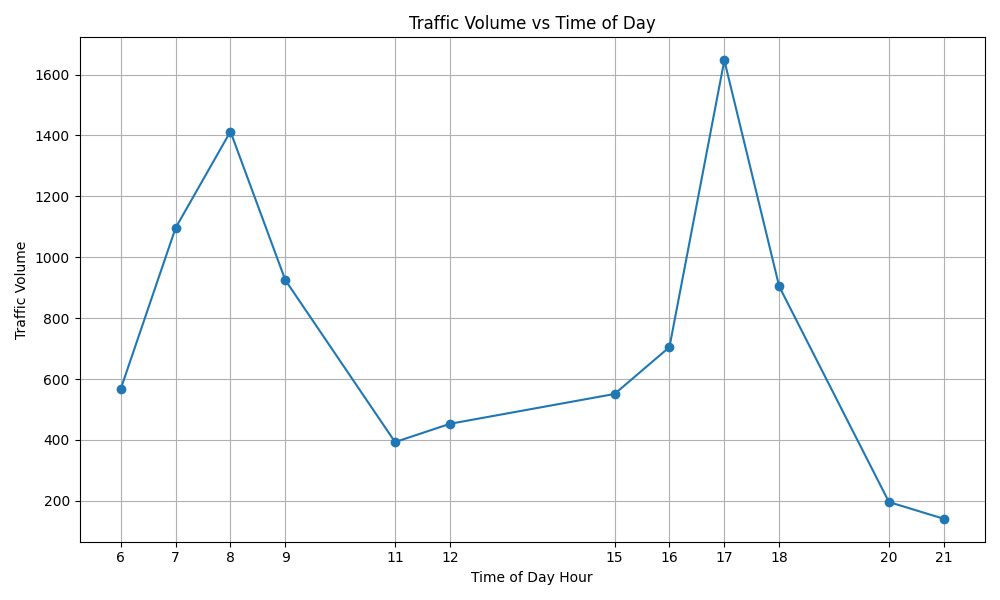
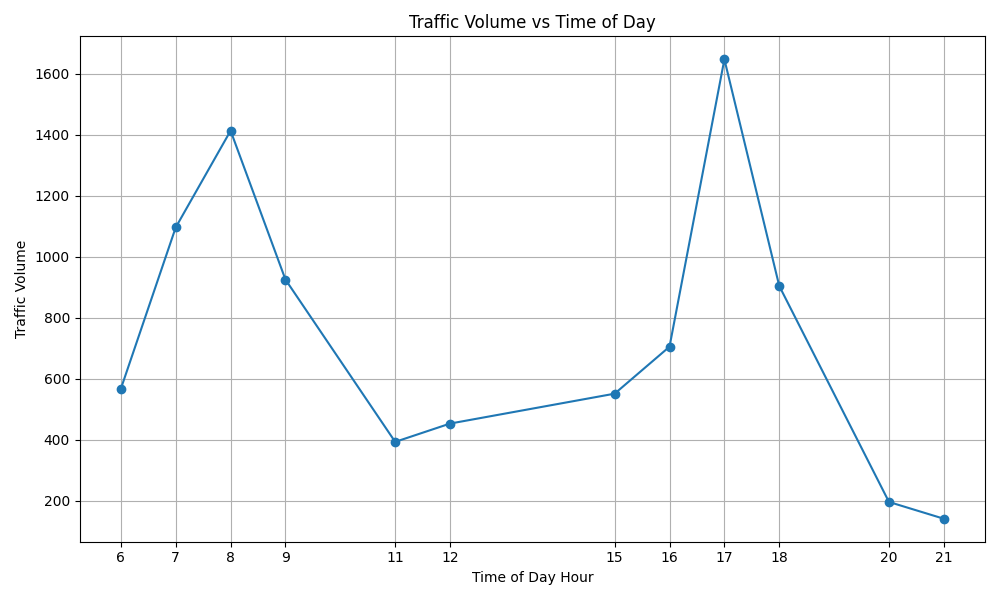
Add environment configuration, update README, and enhance traffic processing scripts

diff --git a/spark/traffic_stream_processor.py b/spark/traffic_stream_processor.py
@@ -4,6 +4,15 @@ import os
 from pyspark.sql.functions import from_json, col, to_timestamp, window, avg, sum as spark_sum, when
 from pyspark.sql.types import StructType, StructField, StringType, IntegerType, DoubleType, BooleanType
 
+try:
+    from dotenv import load_dotenv
+    load_dotenv()
+except ImportError:
+    pass
+
+KAFKA_SERVER = os.getenv("KAFKA_SERVER", "localhost:9092")
+KAFKA_TOPIC = os.getenv("KAFKA_TOPIC", "traffic-data")
+
 spark = SparkSession.builder \
     .appName("SmartCityTrafficStreamProcessor") \
     .master("local[*]") \
@@ -28,8 +37,8 @@ schema = StructType([
 
 kafka_df = spark.readStream \
     .format("kafka") \
-    .option("kafka.bootstrap.servers", "localhost:9092") \
-    .option("subscribe", "traffic-data") \
+    .option("kafka.bootstrap.servers", KAFKA_SERVER) \
+    .option("subscribe", KAFKA_TOPIC) \
     .option("startingOffsets", "latest") \
     .load()
 
@@ -69,7 +78,10 @@ congestion_window_df = traffic_df \
     )
 
 POSTGRES_ENABLED = os.getenv("POSTGRES_ENABLED", "false").lower() == "true"
-POSTGRES_URL = os.getenv("POSTGRES_URL", "jdbc:postgresql://localhost:5432/traffic_db")
+POSTGRES_HOST = os.getenv("POSTGRES_HOST", "localhost")
+POSTGRES_HOST_PORT = os.getenv("POSTGRES_HOST_PORT", os.getenv("POSTGRES_PORT", "55432"))
+POSTGRES_DB = os.getenv("POSTGRES_DB", "traffic_db")
+POSTGRES_URL = os.getenv("POSTGRES_URL", f"jdbc:postgresql://{POSTGRES_HOST}:{POSTGRES_HOST_PORT}/{POSTGRES_DB}")
 POSTGRES_USER = os.getenv("POSTGRES_USER", "traffic_user")
 POSTGRES_PASSWORD = os.getenv("POSTGRES_PASSWORD", "traffic_pass")
 
@@ -84,6 +96,15 @@ def write_to_postgres(batch_df, batch_id, table_name):
         .option("driver", "org.postgresql.Driver") \
         .mode("append") \
         .save()
+
+
+def write_congestion_metrics(batch_df, batch_id):
+    if batch_df.rdd.isEmpty():
+        return
+
+    batch_df.coalesce(1).write \
+        .mode("append") \
+        .json(f"output/congestion_metrics/batch_id={batch_id}")
 
 # Query 1: Critical alerts → console
 critical_query_console = critical_alerts_df.writeStream \
@@ -112,9 +133,8 @@ window_query = congestion_window_df.writeStream \
 
 # Query 4: Window aggregation → folder
 window_file_query = congestion_window_df.writeStream \
-    .outputMode("append") \
-    .format("json") \
-    .option("path", "output/congestion_metrics") \
+    .outputMode("update") \
+    .foreachBatch(write_congestion_metrics) \
     .option("checkpointLocation", "output/checkpoints/congestion_metrics") \
     .queryName("CongestionWindowMetrics_File") \
     .start()

diff --git a/scripts/generate_daily_traffic_report.py b/scripts/generate_daily_traffic_report.py
@@ -3,6 +3,12 @@ import os
 import matplotlib.pyplot as plt
 import pandas as pd
 
+try:
+    from dotenv import load_dotenv
+    load_dotenv()
+except ImportError:
+    pass
+
 
 BASE_DIR = os.path.abspath(os.path.join(os.path.dirname(__file__), ".."))
 DATA_PATH = os.path.join(BASE_DIR, "data", "traffic_data.csv")
@@ -13,7 +19,7 @@ CHART_PATH = os.path.join(REPORT_DIR, "traffic_volume_chart.png")
 
 POSTGRES_CONFIG = {
     "host": os.getenv("POSTGRES_HOST", "localhost"),
-    "port": int(os.getenv("POSTGRES_PORT", "55432")),
+    "port": int(os.getenv("POSTGRES_HOST_PORT", os.getenv("POSTGRES_PORT", "55432"))),
     "dbname": os.getenv("POSTGRES_DB", "traffic_db"),
     "user": os.getenv("POSTGRES_USER", "traffic_user"),
     "password": os.getenv("POSTGRES_PASSWORD", "traffic_pass"),

diff --git a/producer/traffic_producer.py b/producer/traffic_producer.py
@@ -1,11 +1,19 @@
 import json
+import os
 import random
 import time
 from datetime import datetime
 from kafka import KafkaProducer
 
-KAFKA_TOPIC = "traffic-data"
-KAFKA_SERVER = "localhost:9092"
+try:
+    from dotenv import load_dotenv
+    load_dotenv()
+except ImportError:
+    pass
+
+KAFKA_TOPIC = os.getenv("KAFKA_TOPIC", "traffic-data")
+KAFKA_SERVER = os.getenv("KAFKA_SERVER", "localhost:9092")
+PRODUCER_INTERVAL_SECONDS = float(os.getenv("PRODUCER_INTERVAL_SECONDS", "1"))
 
 producer = KafkaProducer(
     bootstrap_servers=KAFKA_SERVER,
@@ -97,7 +105,7 @@ try:
                 f"Status: {data['traffic_status']}"
             )
 
-        time.sleep(1)
+        time.sleep(PRODUCER_INTERVAL_SECONDS)
 
 except KeyboardInterrupt:
     print("Producer stopped.")

diff --git a/dashboard/traffic_dashboard.py b/dashboard/traffic_dashboard.py
@@ -5,6 +5,12 @@ import os
 import pandas as pd
 import streamlit as st
 
+try:
+    from dotenv import load_dotenv
+    load_dotenv()
+except ImportError:
+    pass
+
 
 BASE_DIR = os.path.abspath(os.path.join(os.path.dirname(__file__), ".."))
 REPORT_DIR = os.path.join(BASE_DIR, "reports")

diff --git a/README.md b/README.md
@@ -18,6 +18,18 @@ dashboard/traffic_dashboard.py            Streamlit dashboard
 postgres/init.sql                         PostgreSQL schema
 ```
 
+## Python Environment
+
+This project has a local Python virtual environment in `.venv`.
+
+Activate it before running manual commands:
+
+```bash
+source .venv/bin/activate
+```
+
+The project also has `.env` for local command settings. The shareable template is `.env.example`.
+
 ## Run Kafka
 
 ```bash
@@ -48,8 +60,7 @@ PGPASSWORD=traffic_pass psql -h localhost -p 55432 -U traffic_user -d traffic_db
 ## Run Producer
 
 ```bash
-python3 -m pip install kafka-python
-python3 producer/traffic_producer.py
+.venv/bin/python producer/traffic_producer.py
 ```
 
 Check Kafka messages:
@@ -61,8 +72,7 @@ docker exec -it kafka kafka-console-consumer --topic traffic-data --bootstrap-se
 ## Run Spark Streaming
 
 ```bash
-python3 -m pip install pyspark
-spark-submit \
+.venv/bin/spark-submit \
   --packages org.apache.spark:spark-sql-kafka-0-10_2.12:3.5.1 \
   spark/traffic_stream_processor.py
 ```
@@ -72,7 +82,7 @@ Critical alerts are saved to `output/critical_alerts`.
 To also write streaming critical alerts to PostgreSQL, include the PostgreSQL JDBC driver and enable the sink:
 
 ```bash
-POSTGRES_ENABLED=true spark-submit \
+POSTGRES_ENABLED=true .venv/bin/spark-submit \
   --packages org.apache.spark:spark-sql-kafka-0-10_2.12:3.5.1,org.postgresql:postgresql:42.7.3 \
   spark/traffic_stream_processor.py
 ```
@@ -80,8 +90,7 @@ POSTGRES_ENABLED=true spark-submit \
 ## Generate Daily Report Locally
 
 ```bash
-python3 -m pip install pandas matplotlib
-python3 scripts/generate_daily_traffic_report.py
+.venv/bin/python scripts/generate_daily_traffic_report.py
 ```
 
 Outputs:
@@ -97,8 +106,7 @@ The Airflow DAG also loads `hourly_summary` and `daily_peak_report` into Postgre
 ## Run Dashboard
 
 ```bash
-python3 -m pip install streamlit
-streamlit run dashboard/traffic_dashboard.py
+.venv/bin/streamlit run dashboard/traffic_dashboard.py
 ```
 
 The dashboard shows peak congestion results, hourly congestion trends, the traffic volume chart, and saved critical alert records.
@@ -108,15 +116,15 @@ The dashboard shows peak congestion results, hourly congestion trends, the traff
 Install Airflow using the official constraint file for your Python version, then place this repository on Airflow's DAG path or set `AIRFLOW__CORE__DAGS_FOLDER` to `airflow/dags`.
 
 ```bash
-airflow db init
-airflow users create \
+.venv/bin/airflow db migrate
+.venv/bin/airflow users create \
   --username admin \
   --firstname Admin \
   --lastname User \
   --role Admin \
   --email admin@example.com
-airflow webserver --port 8080
-airflow scheduler
+.venv/bin/airflow webserver --port 8080
+.venv/bin/airflow scheduler
 ```
 
 Open `http://localhost:8080`, enable `daily_smart_city_traffic_report`, and trigger the DAG.
